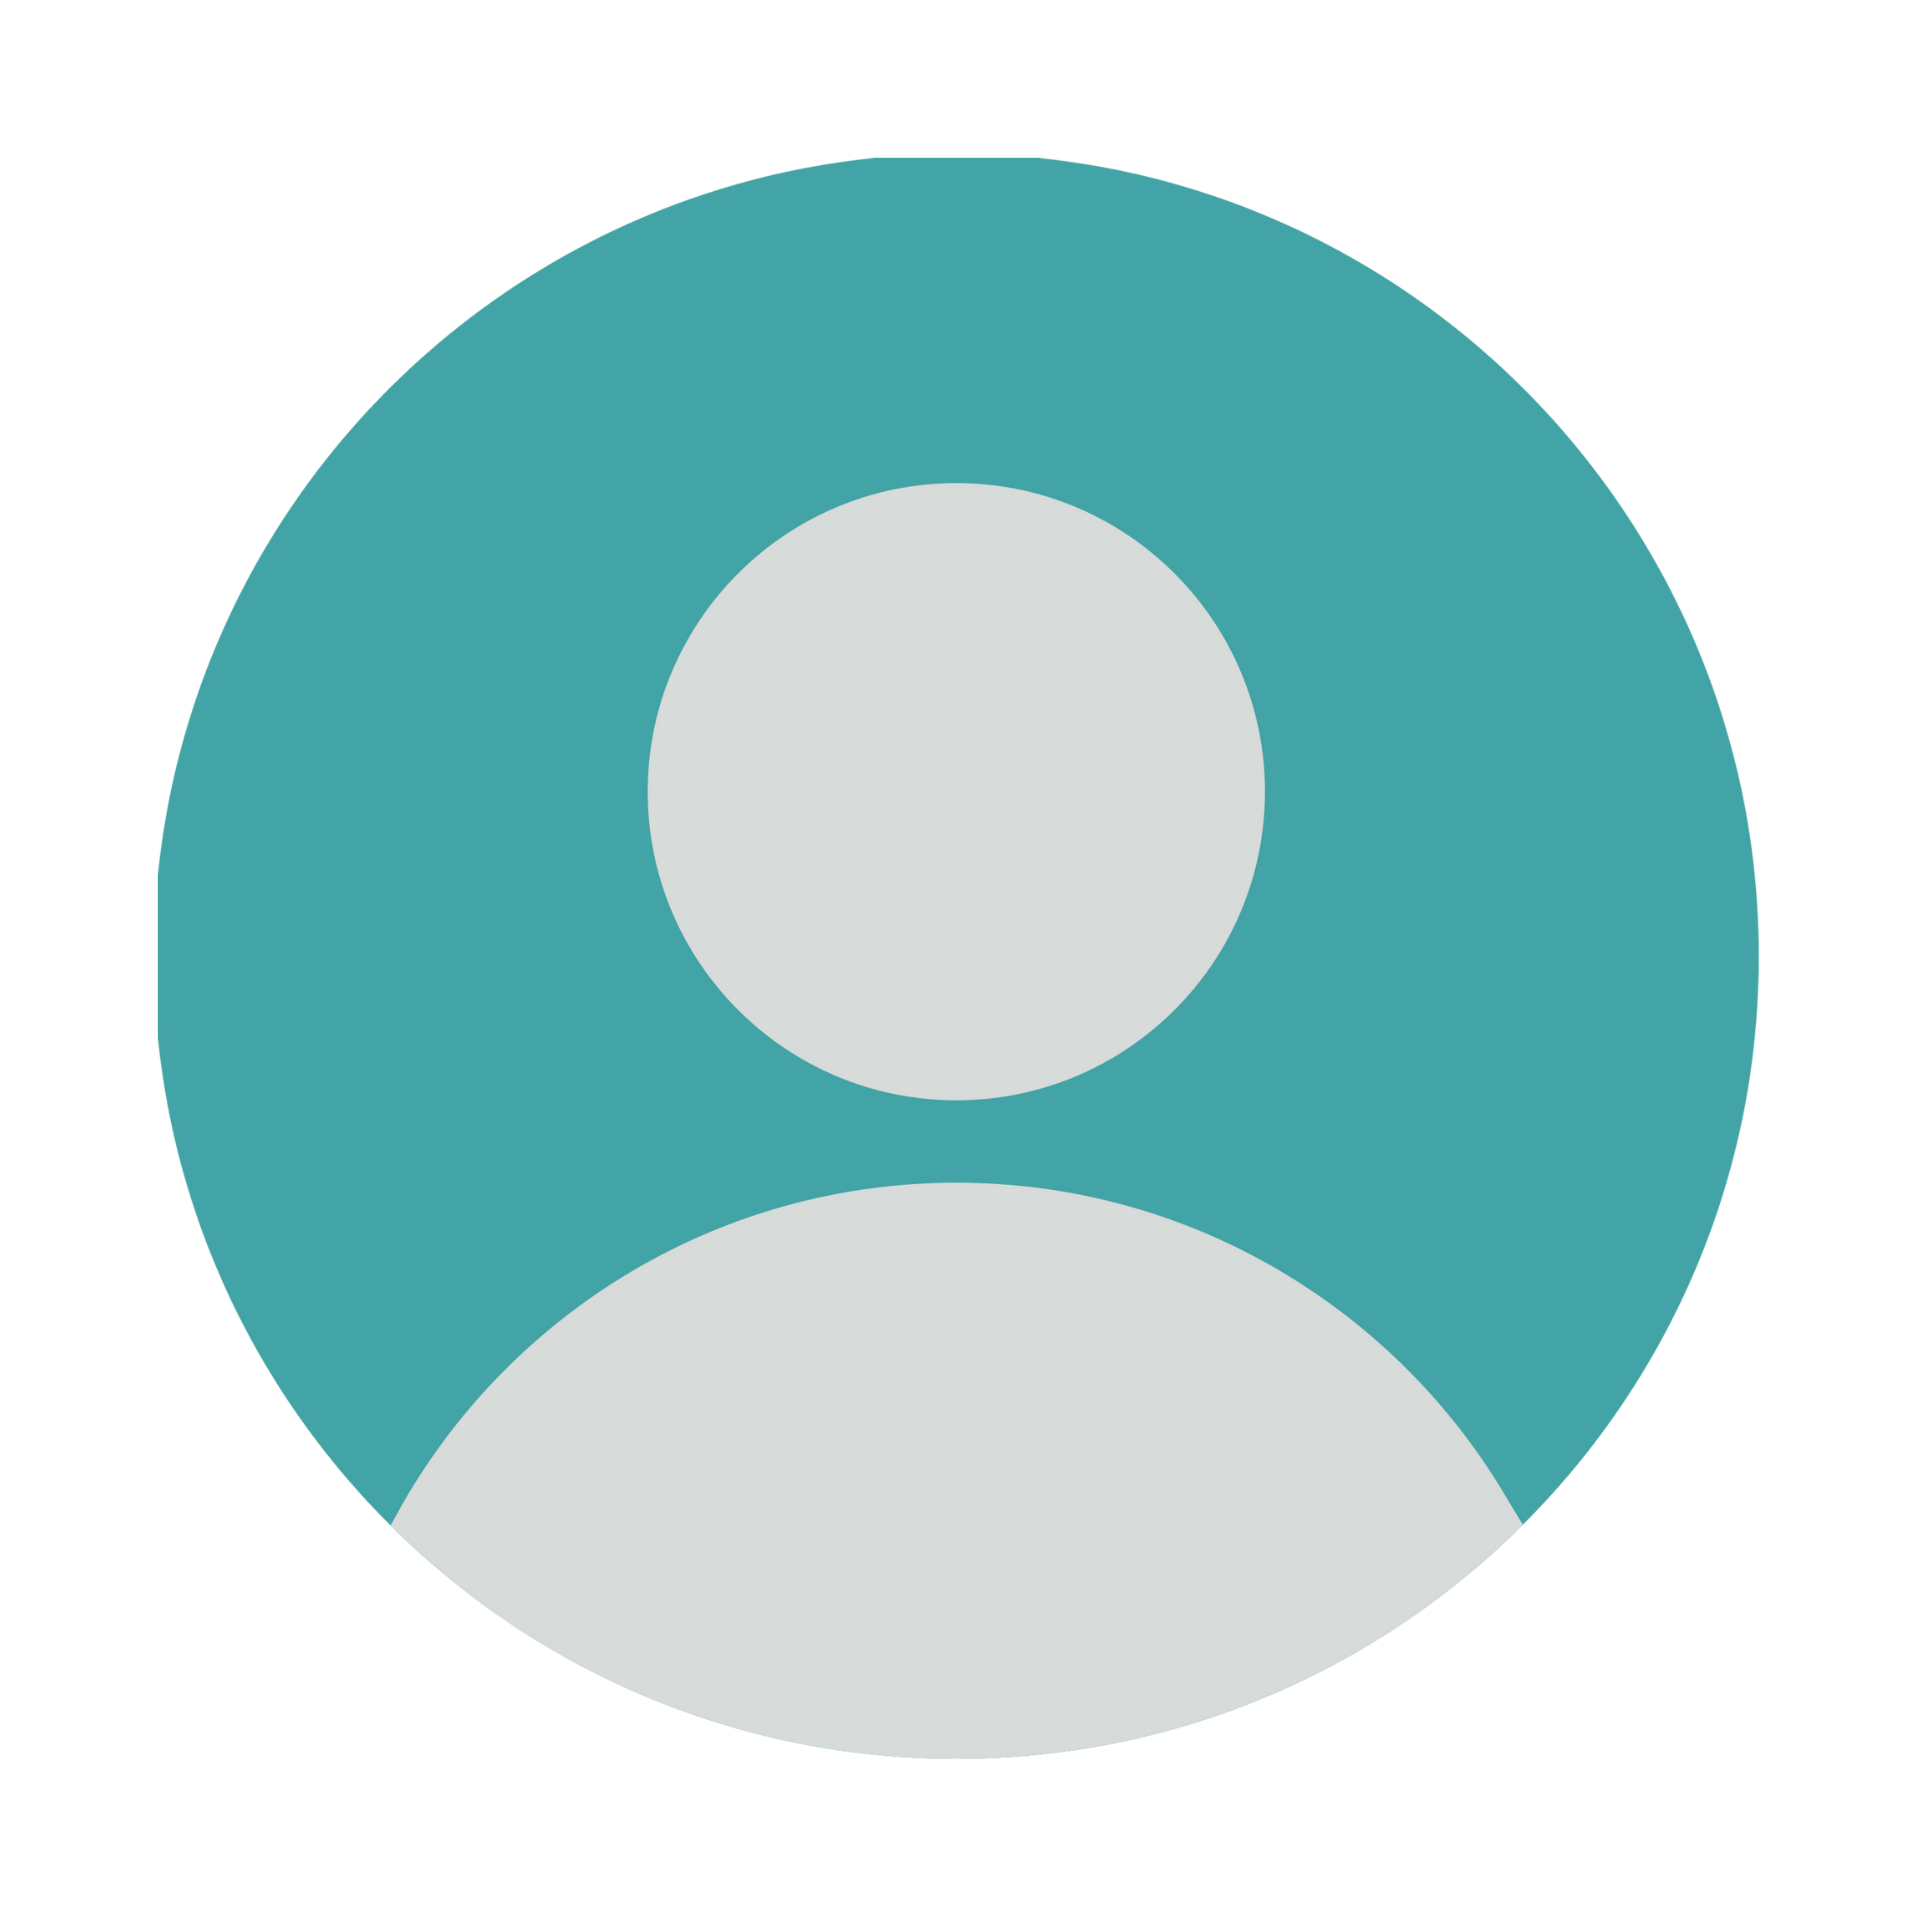
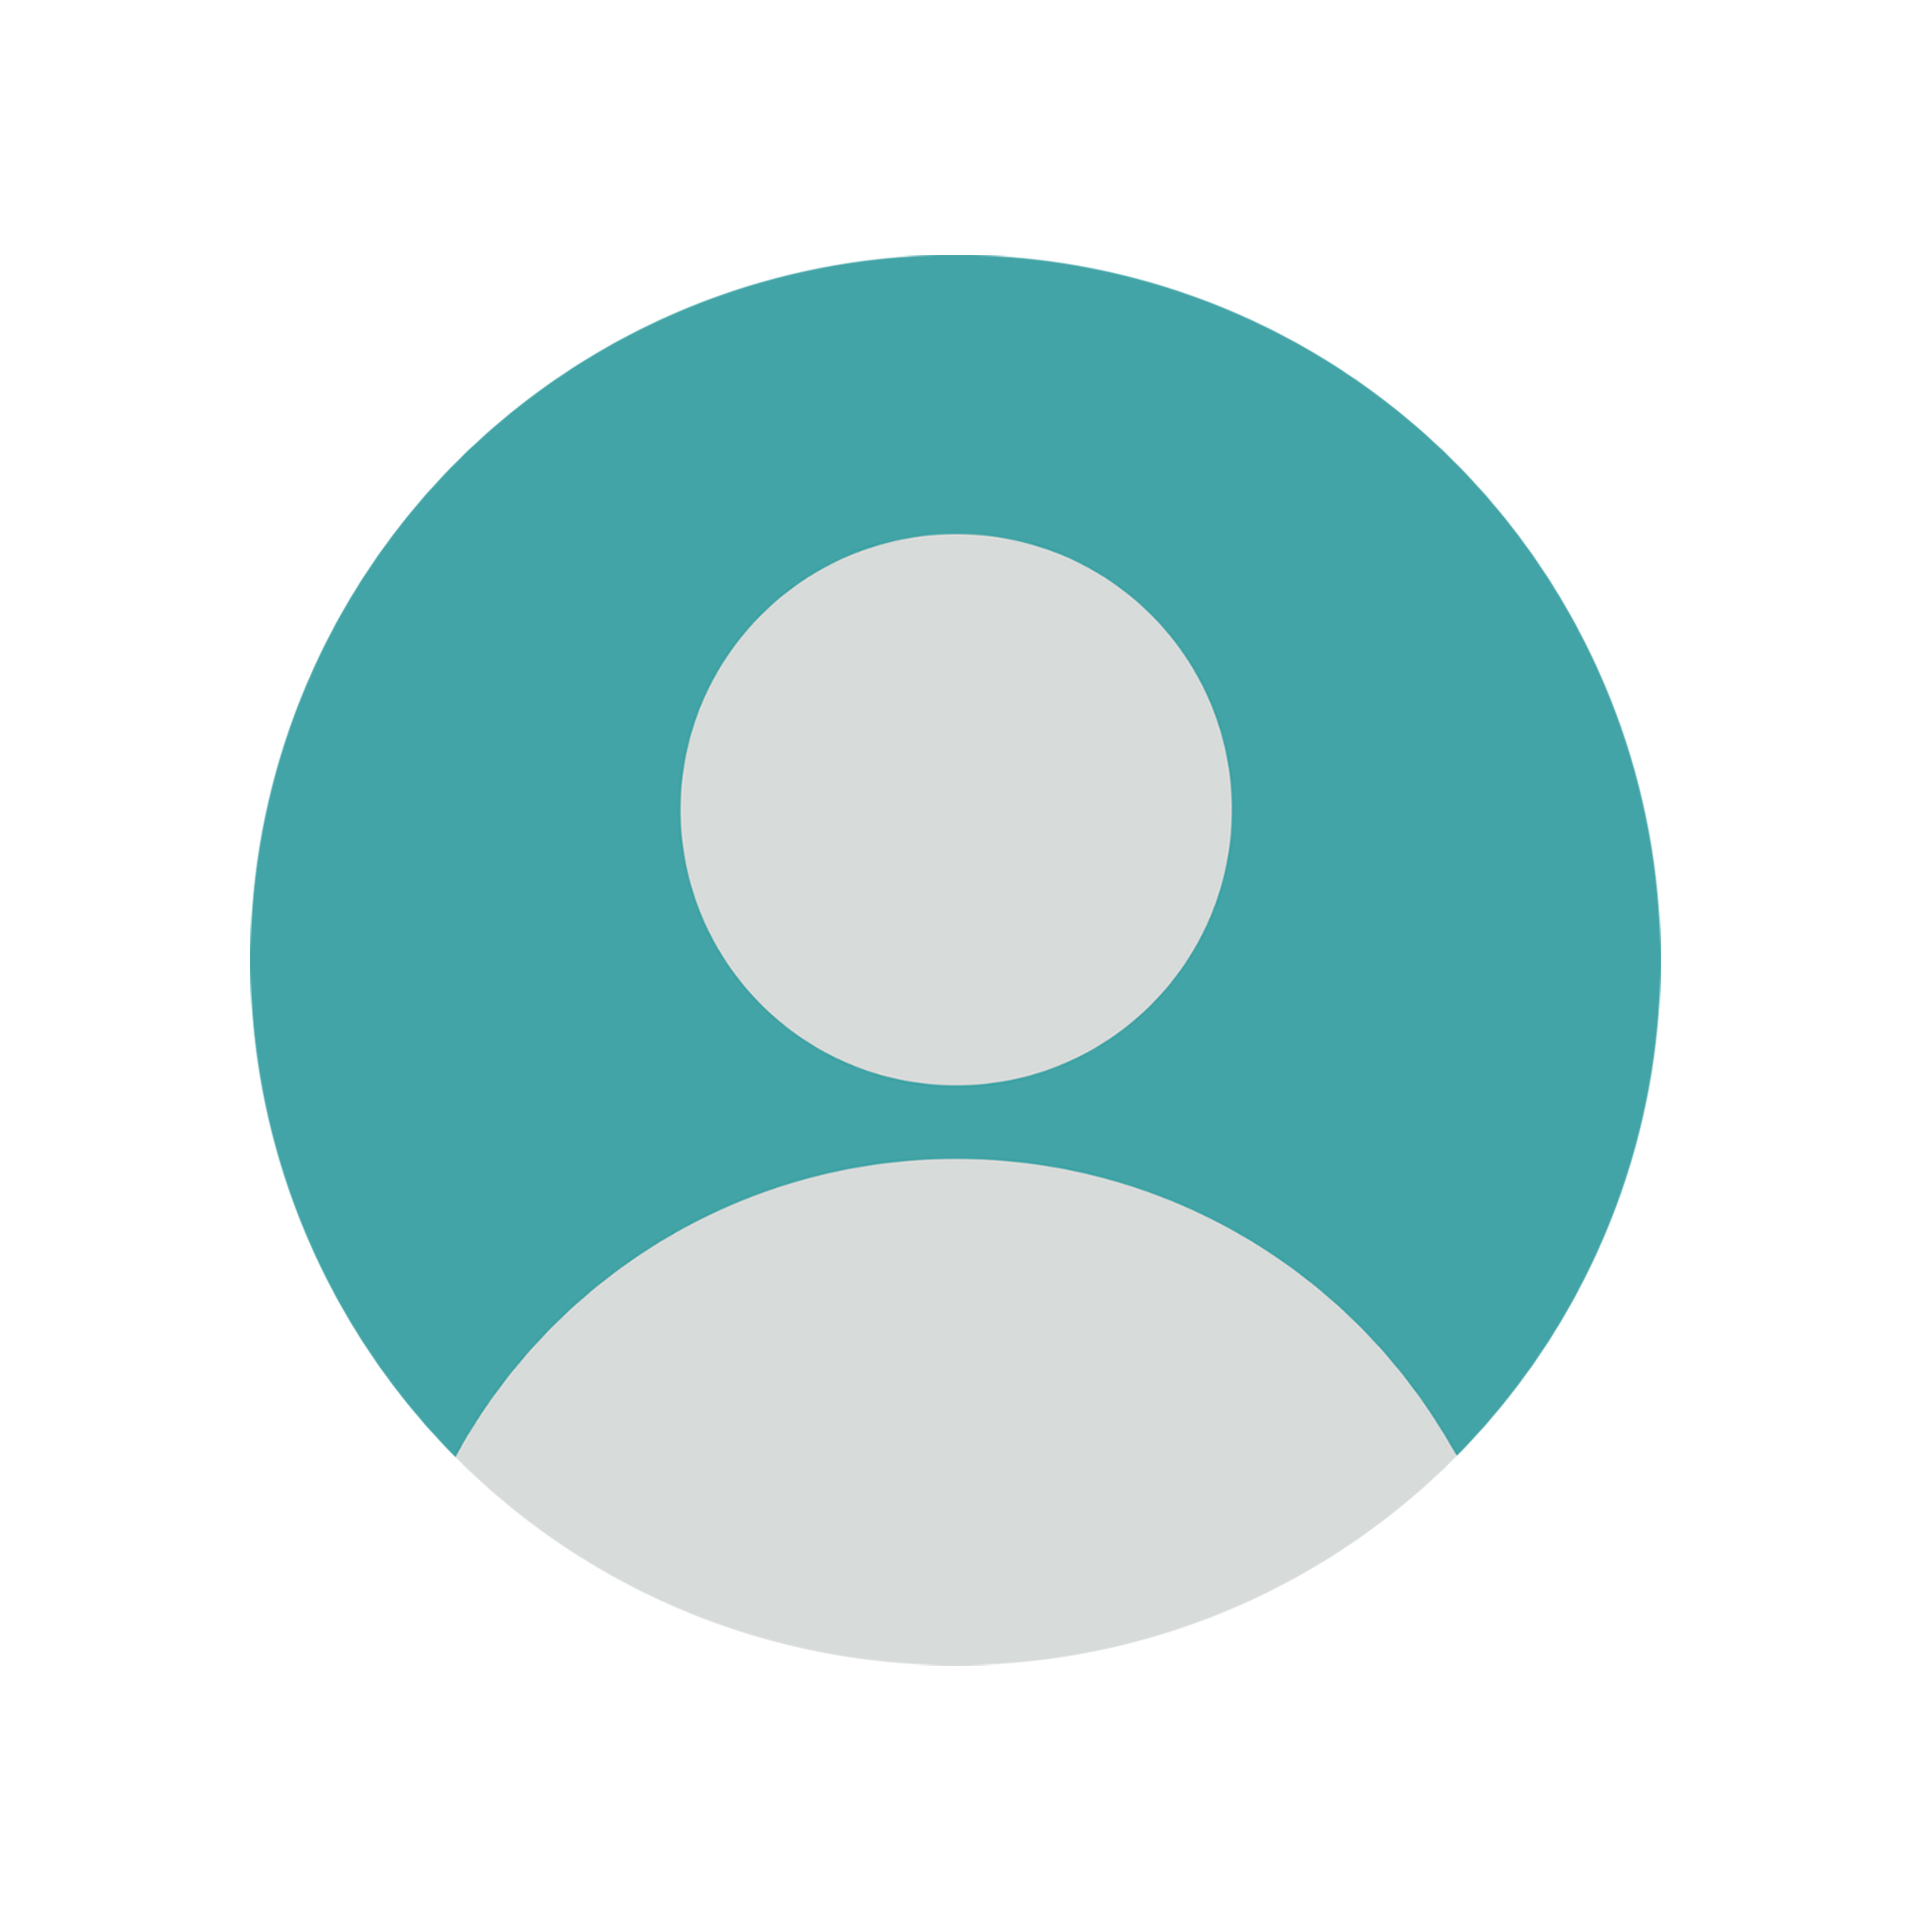
Implement complicated nav bar logic for different users

diff --git a/server.js b/server.js
@@ -98,15 +98,50 @@ connectDB().then(() => {
 
 // Routes
 app.get('/', (req, res) => {
+    // redirect to download page if user is signed in
     if (req.isAuthenticated()) {
         res.redirect('/download');
         return;
     }
+
+    // check if token is present in cookies, for jwt access
+    const token = req.cookies.token;
+    if (token) {
+        jwt.verify(token, process.env.JWT_SECRET, (err, decoded) => {
+            if (err) return;
+            req.user = decoded;
+        });
+    }
+
+    if (req.user) {
+        
+        if (req.user.email) {
+            // registered user token access
+            res.render("index", {
+                isLandingPage: true,
+                hideFooter: true,
+                isGuest: false,
+            });
+            return;
+        } else {
+           // guest token access
+           res.render("index", {
+               isLandingPage: true,
+               hideFooter: true,
+               isGuest: true,
+           });
+           return;
+       }
+    }
+
+    // render landing page for unauthenticated users
     res.render("index", {
         isLandingPage: true,
         hideFooter: true,
     });
+
 });
+
 // Auth routes
 app.get('/login', authController.login);
 app.post('/login', authController.loginPost);

diff --git a/public/css/style.css b/public/css/style.css
@@ -50,16 +50,26 @@
     .nav-links {
       display: flex;
       align-items: center;
-      gap: 20px;
+      gap: 30px;
     }
+
+    .nav-links p {
+      font-size: 1rem;
+      margin-bottom: 0px;
+    }
+
     .nav-right {
       display: flex;
       align-items: center;
+      gap: 8px;
+      text-decoration: none;
+      color: #bbdede;
     }
 
     .nav-right img {
-      width: 50px;
-      height: 50px;
+      height: 30px;
+      /* maintain aspect ratio */
+      width: auto;
       cursor: pointer;
       padding-left: -20px;
     }
@@ -174,7 +184,7 @@
         /* Smaller font size for mobile */
         line-height: 1.4;
       }
-  
+
       .nav-links {
         display: none;
         /* Hide navigation links by default */
@@ -188,6 +198,7 @@
         padding: 10px;
         border-radius: 10px 0 0 10px;
         z-index: 1000;
+        align-items: flex-start;
       }
   
       .nav-links.active {
@@ -218,8 +229,7 @@
         width: 80%;
         text-align: center;
         padding: 8px 16px;
-
-          font-size: 14px;
+        font-size: 14px;
       }
   
       nav .btn {
